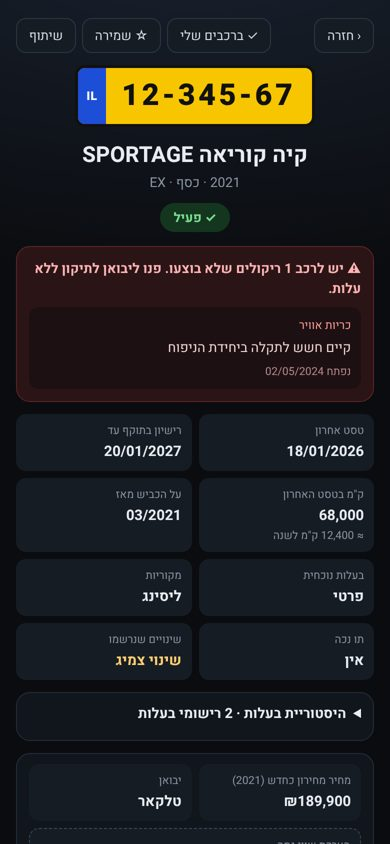
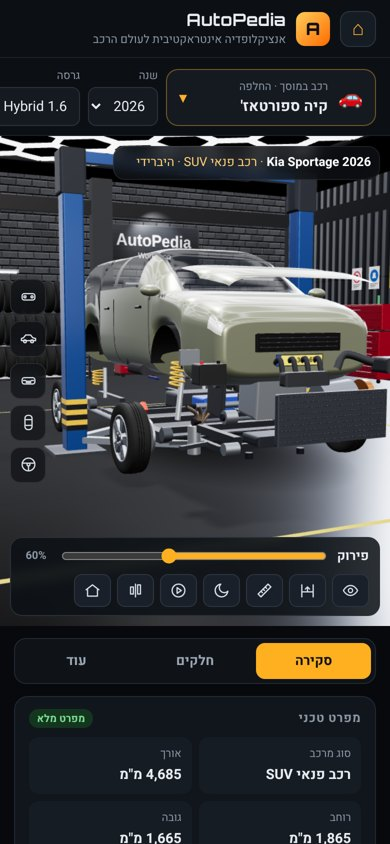
AutoPedia card: show the exploded 3D workshop screenshot
Claude-Session: https://claude.ai/code/session_01VLMtTTz4Vtd66KQv5Mwdtq

diff --git a/index.html b/index.html
@@ -90,7 +90,7 @@ html[lang="he"] [data-l="en"],html[lang="en"] [data-l="he"]{display:none!importa
   <a class="btn" href="https://rabieman.github.io/autopedia-site/"><span data-l="he">לאתר האפליקציה</span><span data-l="en">App website</span></a>
   <a class="btn ghost" href="https://rabieman.github.io/autopedia-site/privacy.html"><span data-l="he">פרטיות</span><span data-l="en">Privacy</span></a>
  </div>
- <img class="shot" src="img/autopedia-shot.jpg" alt="AutoPedia">
+ <img class="shot" src="img/autopedia-shot.jpg?v=2" alt="AutoPedia – מוסך תלת-ממד">
 </article>
 <div class="soon"><span data-l="he">אפליקציות נוספות בדרך.</span><span data-l="en">More apps are on the way.</span></div>
 
